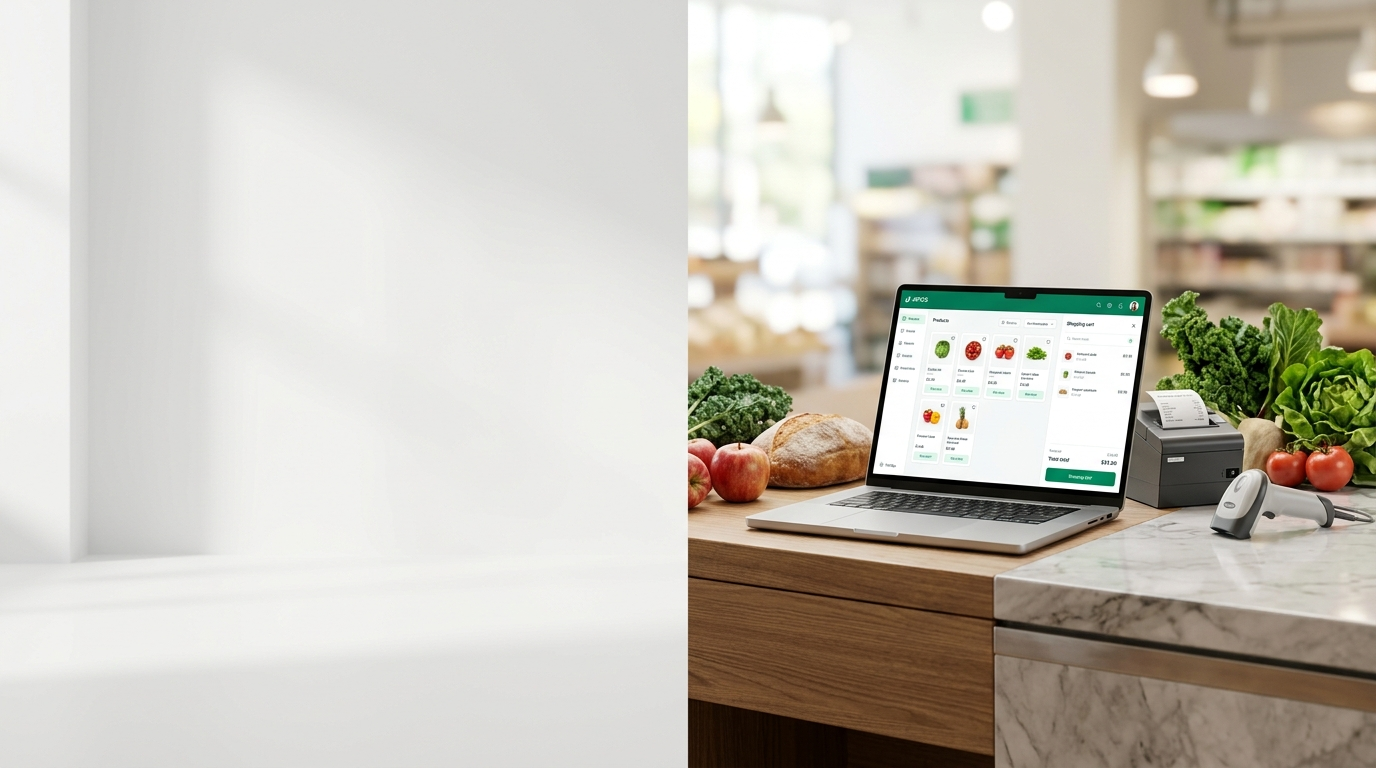
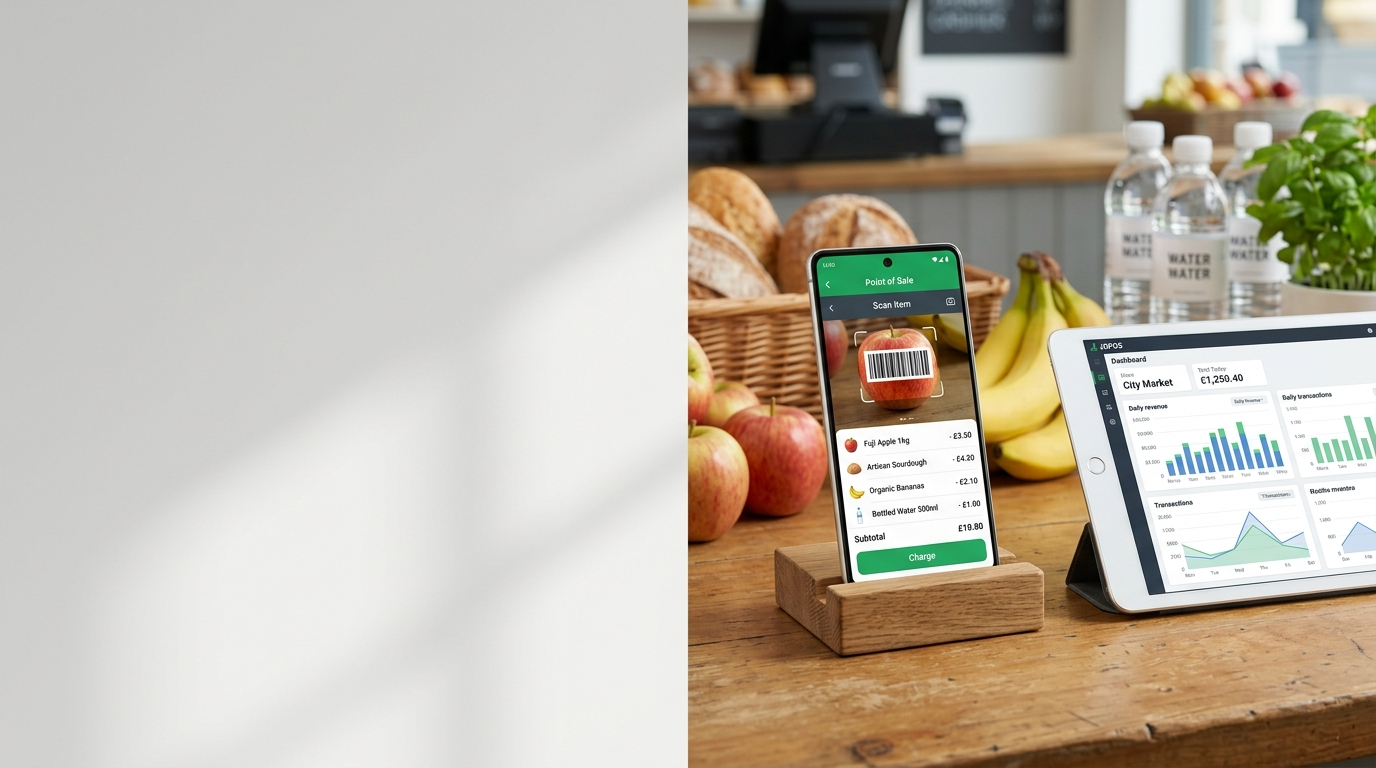
feat(landing): emphasize mobile-first operation, smartphone camera scanner and zero hardware cost

diff --git a/frontend/src/components/WelcomeHero.jsx b/frontend/src/components/WelcomeHero.jsx
@@ -18,7 +18,10 @@ import {
   Printer,
   Barcode,
   Laptop,
+  Smartphone,
+  Tablet,
   Check,
+  QrCode,
 } from "lucide-react";
 import { Button } from "@/components/ui/button";
 import { whatsappUrl } from "@/lib/format";
@@ -32,28 +35,28 @@ import logoWhite from "@/assets/logo2.webp";
 
 const KEY_PILLARS = [
   {
-    icon: ShoppingCart,
-    title: "Ventas más rápidas",
-    desc: "Cobro ágil con lector de barras o cámara, pagos combinados y ticket térmico instantáneo.",
-    badge: "Alta Velocidad",
+    icon: Smartphone,
+    title: "Tu celular es el escáner",
+    desc: "Usa la cámara de tu teléfono para escanear códigos de barras y QR al instante sin comprar pistolas lectoras.",
+    badge: "Cámara Barcode/QR",
     color: "from-emerald-500/20 to-teal-500/10",
     border: "border-emerald-500/30",
     iconColor: "text-emerald-400",
   },
   {
-    icon: Box,
-    title: "Inventario en tiempo real",
-    desc: "Control de stock, alertas de agotado y soporte dual por unidad y sixpack/empaque.",
-    badge: "Cero Descuadres",
+    icon: Zap,
+    title: "Ventas y cobros ágiles",
+    desc: "Cobra en segundos con efectivo, Nequi/Daviplata o fiados desde tu móvil o tablet en el mostrador.",
+    badge: "Alta Velocidad",
     color: "from-teal-500/20 to-cyan-500/10",
     border: "border-teal-500/30",
     iconColor: "text-teal-300",
   },
   {
-    icon: TrendingUp,
-    title: "Tu negocio en crecimiento",
-    desc: "Ganancias diarias, arqueo Z sin descuadres y control de fiados con cobro por WhatsApp.",
-    badge: "Control Total",
+    icon: ShieldCheck,
+    title: "Cero inversión en equipos",
+    desc: "Aprovecha los dispositivos que ya tienes: celular primero, tablets para mostrador y PC opcional.",
+    badge: "Ahorro Total",
     color: "from-amber-500/20 to-emerald-500/10",
     border: "border-amber-500/30",
     iconColor: "text-amber-400",
@@ -119,22 +122,23 @@ const SCREENS = [
 ];
 
 const highlights = [
+  "Vende y escanea con la cámara de tu celular (códigos de barras y QR) sin comprar pistolas",
+  "Cero inversión en equipos: funciona en tu celular actual, tablet o PC",
   "Vende incluso sin internet: la cola offline sincroniza tus ventas al reconectar",
   "Cierra caja sin sorpresas: Arqueo Cierre Z detecta sobrantes y faltantes",
-  "Ahorra horas de digitación: la IA lee tus facturas de proveedor en segundos",
-  "Define el mínimo por producto y JRPOS avisa antes de que se agote",
+  "Digitaliza facturas de proveedor con una foto del celular — la IA hace el resto",
+  "Alertas automáticas de bajo stock y soporte dual (sixpack / unidad)",
   "Cobra el fiado sin perseguir a nadie: recordatorio por WhatsApp en un toque",
   "Roles de Administrador y Cajero: cada quien ve solo lo suyo",
-  "Comisiones por vendedor, calculadas y liquidadas solas",
-  "Remisiones, notas crédito/débito y cuentas de cobro listas para imprimir",
 ];
 
 // TODO: reemplazar por el número real de ventas antes de publicar
 const DEMO_WHATSAPP = "573000000000";
 
 const BEFORE_AFTER = [
+  ["Comprar computadores y pistolas láser caras", "Usa tu celular o tablet actual ($0 en equipos)"],
   ["Cuadernos y Excel sueltos", "Un solo panel: ventas, stock y caja"],
-  ["Facturas de proveedor a mano", "Foto → productos cargados con IA"],
+  ["Facturas de proveedor a mano", "Foto con el celular → productos cargados con IA"],
   ["El fiado se anota y se puede perder", "Cartera por cliente, con historial"],
   ["No sabes qué se agotó hasta que lo piden", "Alerta automática de bajo stock"],
   ["Cierras el día sin saber si ganaste", "Ganancia del día, clara en el panel"],
@@ -206,7 +210,7 @@ export default function WelcomeHero({ onProceedToLogin }) {
               <span className="animate-ping absolute inline-flex h-full w-full rounded-full bg-emerald-400 opacity-75" />
               <span className="relative inline-flex rounded-full h-2 w-2 bg-emerald-400" />
             </span>
-            <span>sistema operativo</span>
+            <span>operación móvil & web</span>
           </div>
 
           <Button
@@ -231,19 +235,19 @@ export default function WelcomeHero({ onProceedToLogin }) {
               transition={{ duration: 0.5 }}
               className="inline-flex items-center gap-2 px-3.5 py-1.5 rounded-full bg-emerald-500/10 border border-emerald-500/25 text-emerald-300 text-xs font-semibold font-['JetBrains_Mono'] uppercase tracking-wide shadow-[3px_3px_10px_rgba(0,0,0,0.35)]"
             >
-              <Sparkles className="w-3.5 h-3.5 text-emerald-400" />
-              <span>Tecnología POS para Tiendas, Bares y Restaurantes</span>
+              <Smartphone className="w-3.5 h-3.5 text-emerald-400" />
+              <span>100% Operable en Celular · Cero Inversión en Equipos</span>
             </motion.div>
 
             <motion.h1
               initial={{ opacity: 0, y: 20 }}
               animate={{ opacity: 1, y: 0 }}
               transition={{ duration: 0.6, delay: 0.1 }}
-              className="text-3xl sm:text-5xl lg:text-[3.4rem] font-extrabold tracking-tight text-white leading-[1.05] font-['Outfit']"
+              className="text-3xl sm:text-5xl lg:text-[3.2rem] font-extrabold tracking-tight text-white leading-[1.06] font-['Outfit']"
             >
-              JRPOS — El POS que hace{" "}
+              Tu celular es tu{" "}
               <span className="bg-gradient-to-r from-emerald-400 via-teal-300 to-amber-300 bg-clip-text text-transparent">
-                crecer tu tienda
+                caja, escáner y control
               </span>
             </motion.h1>
 
@@ -253,7 +257,7 @@ export default function WelcomeHero({ onProceedToLogin }) {
               transition={{ duration: 0.6, delay: 0.2 }}
               className="text-base sm:text-lg text-slate-300 max-w-xl mx-auto lg:mx-0 leading-relaxed"
             >
-              Ventas, inventario y control de tu negocio en un solo lugar. De 2 horas cuadrando caja a 90 segundos de ver todo claro.
+              Escanea códigos de barras y QR con la cámara de tu teléfono móvil, cobra en segundos y administra tu tienda desde el celular o tablet. Sin gastar en computadores ni pistolas costosas.
             </motion.p>
 
             {/* CTAs */}
@@ -273,7 +277,7 @@ export default function WelcomeHero({ onProceedToLogin }) {
               </Button>
 
               <a
-                href={whatsappUrl(DEMO_WHATSAPP, "Hola, quiero una demo de JRPOS para mi tienda 🏪")}
+                href={whatsappUrl(DEMO_WHATSAPP, "Hola, quiero una demo de JRPOS en mi celular para mi tienda 🏪")}
                 target="_blank"
                 rel="noreferrer"
                 className="w-full sm:w-auto"
@@ -315,7 +319,7 @@ export default function WelcomeHero({ onProceedToLogin }) {
             </motion.div>
           </div>
 
-          {/* Right Hero Section (58% / 7 cols) - Photorealistic Retail Ecosystem Showcase */}
+          {/* Right Hero Section (58% / 7 cols) - Photorealistic Retail Mobile & Multi-Device Showcase */}
           <motion.div
             initial={{ opacity: 0, scale: 0.96, y: 15 }}
             animate={{ opacity: 1, scale: 1, y: 0 }}
@@ -329,30 +333,30 @@ export default function WelcomeHero({ onProceedToLogin }) {
               <div className="relative aspect-[16/9] w-full rounded-2xl overflow-hidden bg-slate-950">
                 <img
                   src={heroBanner}
-                  alt="JRPOS Sistema para Tiendas"
+                  alt="JRPOS Celular y Tablet POS"
                   className="w-full h-full object-cover object-center group-hover:scale-[1.015] transition-transform duration-700 ease-out"
                 />
                 
                 {/* Floating hardware & feature badges */}
                 <div className="absolute top-4 left-4 flex flex-wrap gap-2 pointer-events-none">
-                  <div className="flex items-center gap-1.5 px-3 py-1.5 rounded-xl bg-black/60 backdrop-blur-md border border-white/15 text-[11px] font-medium text-white shadow-lg">
-                    <Laptop className="w-3.5 h-3.5 text-emerald-400" />
-                    <span>POS Táctil & PC</span>
+                  <div className="flex items-center gap-1.5 px-3 py-1.5 rounded-xl bg-black/65 backdrop-blur-md border border-emerald-500/30 text-[11px] font-semibold text-emerald-300 shadow-lg">
+                    <Smartphone className="w-3.5 h-3.5 text-emerald-400" />
+                    <span>Celular: Escáner Cámara Barcode & QR</span>
                   </div>
-                  <div className="flex items-center gap-1.5 px-3 py-1.5 rounded-xl bg-black/60 backdrop-blur-md border border-white/15 text-[11px] font-medium text-white shadow-lg">
-                    <Barcode className="w-3.5 h-3.5 text-teal-300" />
-                    <span>Pistola & Cámara</span>
+                  <div className="flex items-center gap-1.5 px-3 py-1.5 rounded-xl bg-black/65 backdrop-blur-md border border-white/15 text-[11px] font-medium text-white shadow-lg">
+                    <Tablet className="w-3.5 h-3.5 text-teal-300" />
+                    <span>Tablet de Mostrador</span>
                   </div>
-                  <div className="flex items-center gap-1.5 px-3 py-1.5 rounded-xl bg-black/60 backdrop-blur-md border border-white/15 text-[11px] font-medium text-white shadow-lg">
-                    <Printer className="w-3.5 h-3.5 text-amber-300" />
-                    <span>Ticket Térmico</span>
+                  <div className="flex items-center gap-1.5 px-3 py-1.5 rounded-xl bg-black/65 backdrop-blur-md border border-white/15 text-[11px] font-medium text-slate-300 shadow-lg">
+                    <Laptop className="w-3.5 h-3.5 text-slate-400" />
+                    <span>PC Opcional</span>
                   </div>
                 </div>
 
                 <div className="absolute bottom-4 right-4 pointer-events-none">
-                  <div className="px-3 py-1.5 rounded-xl bg-emerald-950/80 backdrop-blur-md border border-emerald-500/40 text-[11px] font-semibold text-emerald-200 shadow-xl flex items-center gap-2">
+                  <div className="px-3 py-1.5 rounded-xl bg-emerald-950/85 backdrop-blur-md border border-emerald-500/40 text-[11px] font-semibold text-emerald-200 shadow-xl flex items-center gap-2">
                     <span className="w-2 h-2 rounded-full bg-emerald-400 animate-pulse" />
-                    <span>Multi-empaque: Unidad & Sixpack</span>
+                    <span>Sin comprar equipos costosos</span>
                   </div>
                 </div>
               </div>
